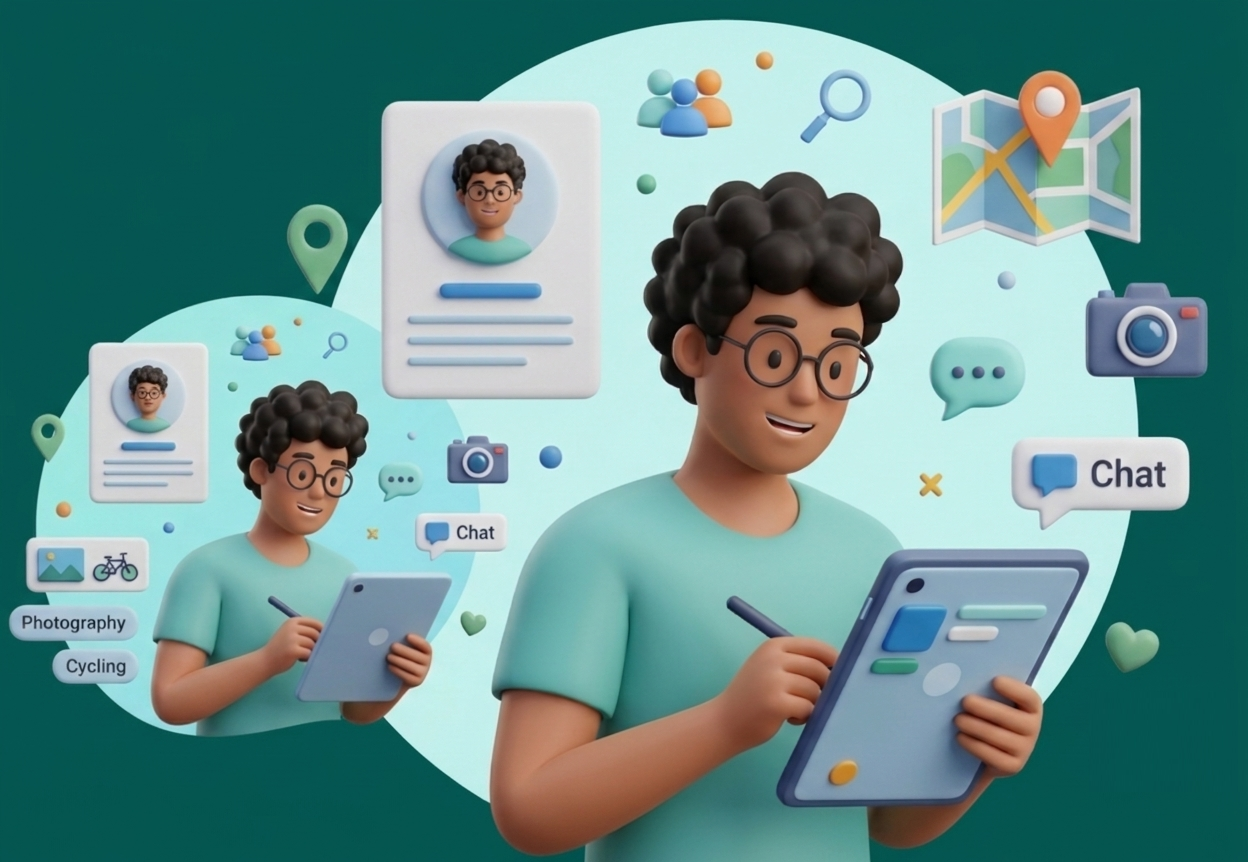
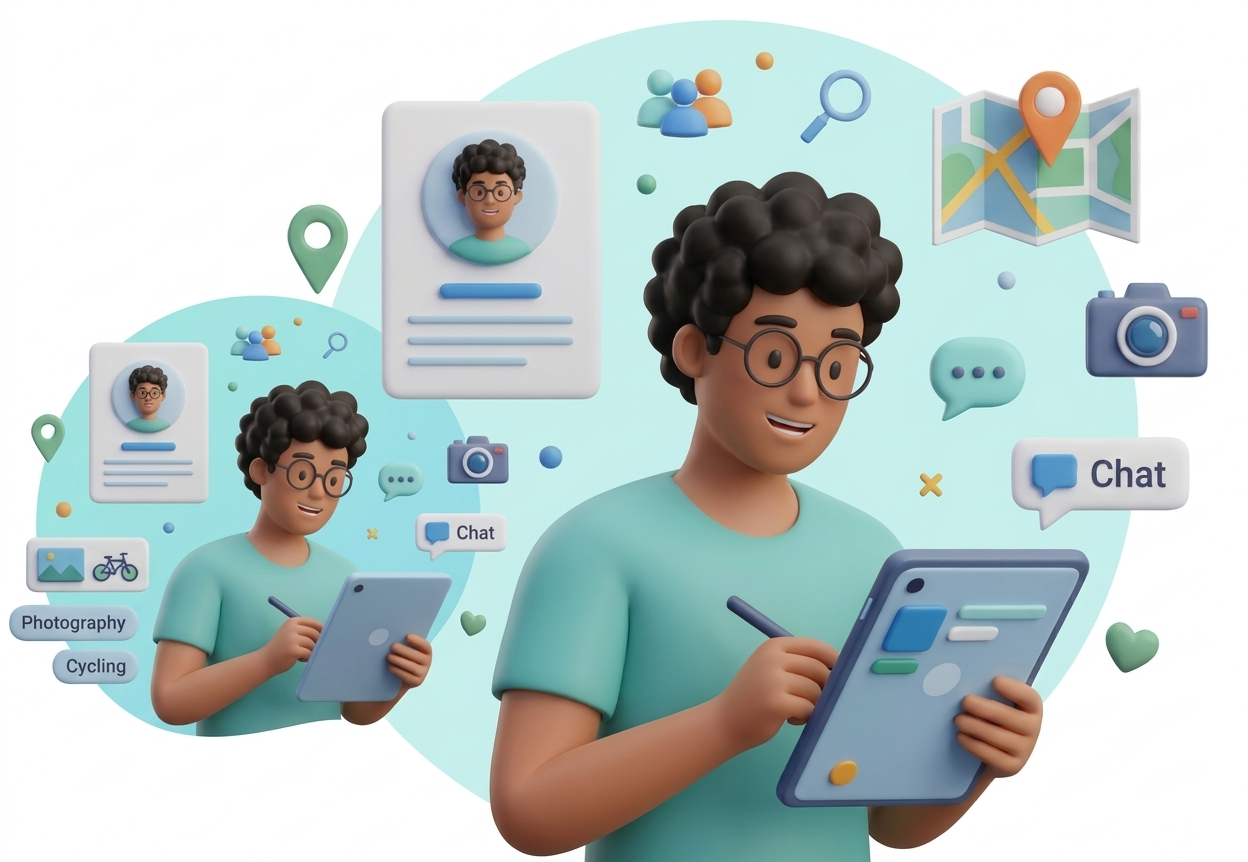
Updated projects

diff --git a/c3/mlh/src/pages/OnBoarding/SetCategories/components/SearchNiches/index.js b/c3/mlh/src/pages/OnBoarding/SetCategories/components/SearchNiches/index.js
@@ -38,10 +38,11 @@ const SearchNiches = () =>{
     });
 };
  return (<>
-    <div className="list-group mtop15p">
-        <div className="list-group-item" style={{ backgroundColor:'#eee' }}>
-            <Row>
-                <Col md={8}>
+    <div>
+        <div style={{ paddingLeft:'15px', paddingRight:'15px', paddingBottom:'15px', backgroundColor:'#f4e7af', borderBottom:'1px solid #ccc' }}>
+            <div style={{ display:'flex'}}>
+                <div style={{ width:'82%'}}>
+                    {/** */}
                     <div style={{ display: "flex", gap: "8px" }}>
                         <div  className="input-group">
                             <input
@@ -58,16 +59,20 @@ const SearchNiches = () =>{
                             </span>
                         </div>
                     </div>
-                </Col>
-                <Col md={2}>
+                    {/** */}
+                </div>
+                <div style={{ width:'8%'}}>
+                    {/** */}
                     <div align="right" style={{ paddingTop:'5px' }}>
                         <span style={{ marginLeft:'3px'}}>{nichesContext?.contextData?.userSelected?.selectedCount ?? 0}</span> 
                         <span style={{ marginLeft:'3px'}}>of</span>
                         <span style={{ marginLeft:'3px'}}>{nichesContext?.contextData?.userSelected?.subCategoriesCount ?? 0}</span>
                         <span style={{ marginLeft:'3px'}}>Selected</span>
                     </div>
-                </Col>
-                <Col md={2}>
+                    {/** */}
+                </div>
+                <div style={{ width:'10%'}}>
+                    {/** */}
                     <div align="right">
                         <Button type="dark" size={11} 
                             style={{ marginRight:'5px' }} 
@@ -75,6 +80,18 @@ const SearchNiches = () =>{
                         <Button type="outline-dark" size={11} 
                             onClick={()=>NicheDeSelectAllHandler()}><b>Clear All</b></Button>
                     </div>
+                    {/** */}
+                </div>
+            </div>
+            <Row>
+                <Col md={8}>
+                    
+                </Col>
+                <Col md={2}>
+                    
+                </Col>
+                <Col md={2}>
+                    
                 </Col>
             </Row>
         </div>

diff --git a/c3/mlh/src/pages/OnBoarding/SetCategories/components/HeaderTitle/index.js b/c3/mlh/src/pages/OnBoarding/SetCategories/components/HeaderTitle/index.js
@@ -1,30 +1,19 @@
 import React from "react";
 import { Icon } from "e-ui-react";
-import OnBoardHeader from "@Components/UIElements/OnBoardHeader";
 
 const HeaderTitle = () =>{
     return (<>
-        <div align="center">
+        <div align="center" style={{ paddingBottom:'25px' }}>
                 <div className="mtop25p">
-                    <OnBoardHeader label1="Personalize" label2="Your Interests" label3="to Explore" />
-                    <h2 style={{ fontSize: '28px', fontFamily: 'Metropolis', letterSpacing: '0.4px', marginTop:'15px' }}>
-                        <b>What are you interested in?</b>
-                    </h2>
+                    <div>
+                        <h2 className="mtop15p mlh-intro-heading" style={{ color:'#000 '}}>
+                            Personalize Your Interests to Explore
+                        </h2>
+                    </div>
                 </div>
                 <div style={{ fontSize:'16px', color:'#555' }}>Choose the topics you'd like to see in your MyLocalHook feed. 
                     You can change your interests anytime.<br/> Your Feed will be personalized based on your location and interests. 
                     We will show you what matters most in your community. 
-                </div>
-                <div>
-                    
-                </div>
-                <div className="mtop5p">
-                    <span style={{ textTransform:'uppercase', fontSize:'13px', color:'#888', marginRight:'5px' }}><b>Stay informed |</b></span>
-                    <span style={{ backgroundColor:'#e8e9f9', fontSize:'12px', color:'#27187e', padding:'6px', border:'1px solid #27187e', borderRadius:'8px' }}>
-                            <Icon type="FontAwesome" name="fa-bolt" size={11} style={{ marginLeft:'5px', marginRight:'5px' }} />
-                            <span style={{ marginRight:'5px' }}>Personalize Your Feed</span>
-                    </span>
-                    <span style={{ textTransform:'uppercase', fontSize:'13px', color:'#888', marginLeft:'5px' }}><b>| Stay Connected</b></span>
                 </div>
         </div>
     </>);

diff --git a/c3/mlh/src/pages/OnBoarding/SetProfile/components/RightContainer/index.js b/c3/mlh/src/pages/OnBoarding/SetProfile/components/RightContainer/index.js
@@ -58,15 +58,15 @@ const getWarningMessage = () => {
  };
  return (<>
  <div style={{ padding:'15px' }}>
-                <div style={{ border:'1px solid #000',
+                <div style={{ border:'1px solid #fff',
                     backgroundColor:'#fff', color:'#000', borderRadius:'12px', overflow:'hidden' }}>
-                <div style={{ 
+                {/*<div style={{ 
                          backgroundColor:'#f6f4f0', padding:'15px' }}>
                     <h2 style={{  fontSize:'22px', }}><b>Get Started by telling us about yourself!</b></h2>
                     {/*<span style={{ color:'#555' }}>
                         Tell us a little about yourself to create your profile and help your community get to know you.
                     </span>*/}
-                </div>
+                {/*</div>*/}
                 <div style={{ padding:'20px' }}>
                 <div align="center">
                     <img src={profileContext?.contextData?.form?.profilePic}  referrerPolicy="no-referrer" 

diff --git a/c3/mlh/src/pages/OnBoarding/SetCategories/index.js b/c3/mlh/src/pages/OnBoarding/SetCategories/index.js
@@ -19,17 +19,23 @@ const initialSelected = {
 }
 const SetCategories = () =>{
  const nichesContext = getNichesContext();
-
+ useEffect(()=>{
+    document.body.style.backgroundColor='#f5f5f5';
+ },[]);
  return (<NichesProvider variables={{ userSelected: initialSelected, searchQuery: "" }}>
  <Header2 />
  <div style={{ paddingBottom:'75px' }}>
- <ContainerFluid>
-    <Row>
-        <Col md={2}></Col>
-        <Col md={8}><HeaderTitle /></Col>
-        <Col md={2}></Col>
-    </Row>
+    <div style={{ backgroundColor:'#f4e7af'}}>
+        <ContainerFluid>
+            <Row>
+                <Col md={2}></Col>
+                <Col md={8}><HeaderTitle /></Col>
+                <Col md={2}></Col>
+            </Row>
+        </ContainerFluid>
+    </div>
     <Row><Col md={12}><SearchNiches /></Col></Row>
+    <ContainerFluid>
     <DisplayNiches />
  </ContainerFluid>
  </div>

diff --git a/c3/mlh/src/pages/OnBoarding/SetPostalCode/index.js b/c3/mlh/src/pages/OnBoarding/SetPostalCode/index.js
@@ -27,7 +27,10 @@ const SetPostalCode = ()=>{
         <Row>
             <Col md={3}>
                 <div style={{ marginTop:'15px', fontFamily:'Metropolis', letterSpacing:'0.3px' }}>
-                    <h3 className="mtop15p mlh-intro-heading" style={{ color:'#ffefb3'}}>Set your Local Area</h3>
+                    <h4 className="mtop15p mlh-intro-heading" style={{ color:'#ffefb3'}}>
+                        <Icon type="FontAwesome" name="fa-map-marker" style={{ marginRight:'8px'}} />
+                        Set your Local Area
+                    </h4>
                     <div style={{ marginTop:'15px' }}>
                         <div style={{ color:'#fff', fontSize:'16px' }}>
                             Enter your <b>6-digit PIN Code</b> to identify your local area and explore what's happening around you.

diff --git a/c3/mlh/src/pages/OnBoarding/SetProfile/components/LeftContainer/index.js b/c3/mlh/src/pages/OnBoarding/SetProfile/components/LeftContainer/index.js
@@ -7,8 +7,8 @@ const LeftContainer = () =>{
     <div>
     {/* Text Content */}
     <div style={{ padding:'15px' }}>
-        <h1 className="mlh-intro-heading mb-3" style={{ color: '#ffefb3'}}>Let's Set Up Your Profile!</h1>
-        <p className="mlh-intro-description mx-auto mx-lg-0 mb-0"  style={{ color: '#fff'}}>
+        <h1 className="mlh-intro-heading mb-3" style={{ color: '#000'}}>Let's Set Up Your Profile!</h1>
+        <p className="mlh-intro-description mx-auto mx-lg-0 mb-0"  style={{ color: '#555'}}>
             Create your personal profile and let your community know who you are.
             <br />
             Connect with people, discover local updates, and explore what matters to you.    

diff --git a/c3/mlh/src/pages/OnBoarding/SetCategories/components/DisplayNiches/index.js b/c3/mlh/src/pages/OnBoarding/SetCategories/components/DisplayNiches/index.js
@@ -138,7 +138,7 @@ const isSelected = (id) => {
                 {c?.subCategories?.map((s,i2)=>{
                     return (<Col key={i2} md={3}>
                         <div style={{ marginBottom:'12px' }}>
-                        <Card padding={15} backgroundColor="#fbe9b5" border={{ color:'#5a3c08' }}>
+                        <Card padding={15} backgroundColor="#f7a91b" border={{ color:'#093331' }}>
                             <div style={{ display:'flex' }}>
                                 <div style={{ width:'15%' }}>
                                     <div className="form-check form-switch">

diff --git a/c3/mlh/src/templates/Header2/index.js b/c3/mlh/src/templates/Header2/index.js
@@ -7,8 +7,10 @@ const Header2 = ()=>{
  useEffect(()=>{
    console.log("userDetails [Header2]: ", userDetails?.profilePic);
  },[]);
- return ( <nav className="navbar navbar-expand-sm" style={{ zIndex:2, borderBottom:'1px solid #ccc', 
-   boxShadow:'1px 1px 1px 1px #808080' }}>
+ return ( <nav className="navbar navbar-expand-sm" style={{ zIndex:2,  backgroundColor:'#fff',
+   // borderBottom:'1px solid #ccc', 
+   // boxShadow:'1px 1px 1px 1px #ccc',
+    }}>
  <div className="container-fluid">
 
    <div align="center" style={{ fontFamily: 'BloomsFree', fontSize:'28px', letterSpacing:'3px' }}>

diff --git a/c3/mlh/src/pages/OnBoarding/SetProfile/index.js b/c3/mlh/src/pages/OnBoarding/SetProfile/index.js
@@ -27,7 +27,7 @@ const SetProfile = () =>{
  <Form name="userForm" onSubmit={(form, isValid, resetForm) => {
         console.log("Form Data:", form);
       }}>
- <div style={{ paddingBottom:'40px', backgroundColor:'#00594e' }}>
+ <div style={{ paddingBottom:'40px', backgroundColor:'#fff' }}>
   <ContainerFluid>
     <Row>
         <Col md={8}><LeftContainer /></Col>
